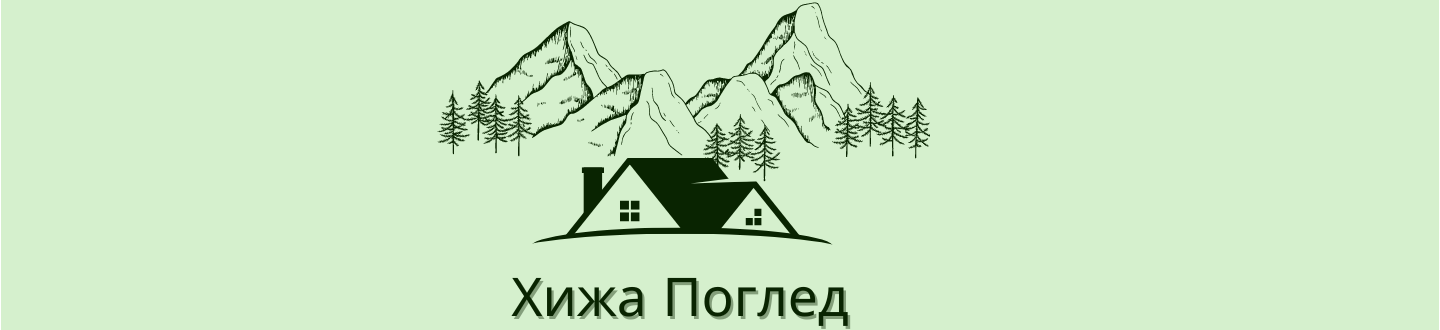
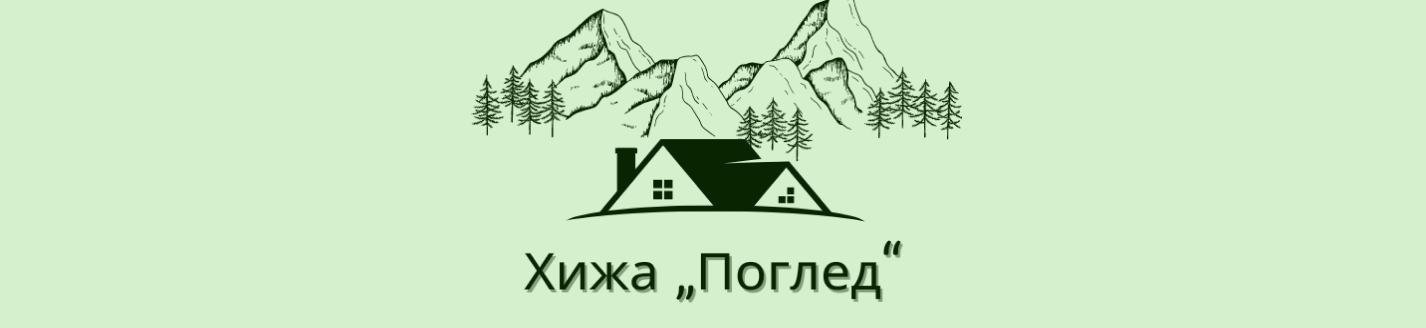
Added social media buttons

Changed region(s): [[0.3086, 0.0, 0.6788, 0.7317], [0.3394, 0.7622, 0.6171, 1.0], [0.6171, 0.7317, 0.648, 0.7927]]

diff --git a/index.css b/index.css
@@ -1,51 +1,165 @@
 /* General Reset */
 * {
-    box-sizing: border-box; /* Ensure padding and borders are included in width and height */
+  box-sizing: border-box; /* Ensure padding and borders are included in width and height */
 }
 
-html, body {
-    margin: 0;
-    padding: 0;
-    overflow-x: hidden; /* Prevent horizontal scrolling */
-    background-color: rgb(213, 240, 205);
+html,
+body {
+  margin: 0;
+  padding: 0;
+  overflow-x: hidden; /* Prevent horizontal scrolling */
+  background-color: rgb(213, 240, 205);
 }
 
 /* Header Image */
 .headerImg {
-    margin: 0;
-    padding: 0;
-    width: 100%; /* Make sure it spans the full width */
-    display: block;
+  margin: 0;
+  padding: 0;
+  width: 100%; /* Make sure it spans the full width */
+  display: block;
 }
 
 /* Header Text */
 .headerText {
-    padding: 0;
-    margin: 0;
-    background-color: rgb(213, 240, 205);
-    height: 200px;
-    width: 100%; /* Ensure it spans the full width */
-    line-height: 1;
+  padding: 0;
+  margin: 0;
+  background-color: rgb(213, 240, 205);
+  height: 200px;
+  width: 100%; /* Ensure it spans the full width */
+  line-height: 1;
+  text-align: center;
+  font-family: Arial, Helvetica, sans-serif;
+  font-size: 30px;
+  border: 0;
 }
 
 /* Navbar */
 .navbar {
-    margin: 0;
-    padding: 0;
-    width: 100%; 
-    background-color: black;
-    display: flex; /* Use flexbox to align buttons evenly */
-    justify-content: space-around; /* Space out the buttons */
-    align-items: center; /* Center buttons vertically */
+  margin: 0;
+  padding: 0;
+  width: 100%;
+  background-color: black;
+  display: flex; /* Use flexbox to align buttons evenly */
+  justify-content: space-around; /* Space out the buttons */
+  align-items: center; /* Center buttons vertically */
 }
 
 /* Navbar Buttons */
 .navButton {
-    margin: 0; /* Remove default margin to avoid overflow */
-    padding: 15px; /* Add padding for spacing */
-    color: white;
-    background-color: transparent;
-    border: none;
-    cursor: pointer;
+  margin: 0; /* Remove default margin to avoid overflow */
+  padding: 20px; /* Add padding for spacing */
+  color: white;
+  background-color: transparent;
+  border: none;
+  cursor: pointer;
+  font-family: Arial, Helvetica, sans-serif;
+  font-size: 25px;
+  box-shadow: 5px;
+}
+.navButton:hover {
+  color: green;
 }
 
+/* Search Bar */
+.searchBar {
+  margin: 0; /* Remove default margin */
+  padding: 10px 15px; /* Smaller padding for a more compact size */
+  color: black; /* Change text color to black for better readability */
+  background-color: white; /* White background for the search bar */
+  border: 2px solid white; /* White border */
+  border-radius: 25px; /* Rounded corners */
+  font-family: Arial, Helvetica, sans-serif;
+  font-size: 18px; /* Smaller font size */
+  outline: none; /* Remove default focus outline */
+  width: 200px; /* Fixed width */
+}
+
+.searchBar::placeholder {
+  color: gray; /* Placeholder text color */
+}
+
+.searchBar:hover,
+.searchBar:focus {
+  border: 2px solid green; /* Change border color on hover or focus */
+}
+
+/* Navbar Container Adjustment */
+.navbar {
+  margin: 0;
+  padding: 0;
+  width: 100%;
+  background-color: black;
+  display: flex;
+  justify-content: center; /* Align items to the right */
+  align-items: center; /* Center items vertically */
+}
+
+.navButton {
+  margin-right: 20px; /* Add spacing between buttons */
+}
+
+.wrapper .icon {
+  position: relative;
+  background-color: #ffffff;
+  border-radius: 50%;
+  margin: 10px;
+  width: 50px;
+  height: 50px;
+  line-height: 50px;
+  font-size: 22px;
+  display: inline-block;
+  align-items: center;
+  box-shadow: 0 10px 10px rgba(0, 0, 0, 0.1);
+  cursor: pointer;
+  transition: all 0.2s cubic-bezier(0.68, -0.55, 0.265, 1.55);
+  color: #333;
+  text-decoration: none;
+}
+.wrapper .tooltip {
+  position: absolute;
+  top: 0;
+  line-height: 1.5;
+  font-size: 14px;
+  background-color: #ffffff;
+  color: #ffffff;
+  padding: 5px 8px;
+  border-radius: 5px;
+  box-shadow: 0 10px 10px rgba(0, 0, 0, 0.1);
+  opacity: 0;
+  pointer-events: none;
+  transition: all 0.3s cubic-bezier(0.68, -0.55, 0.265, 1.55);
+}
+.wrapper .tooltip::before {
+  position: absolute;
+  content: "";
+  height: 8px;
+  width: 8px;
+  background-color: #ffffff;
+  bottom: -3px;
+  left: 50%;
+  transform: translate(-50%) rotate(45deg);
+  transition: all 0.3s cubic-bezier(0.68, -0.55, 0.265, 1.55);
+}
+.wrapper .icon:hover .tooltip {
+  top: -45px;
+  opacity: 1;
+  visibility: visible;
+  pointer-events: auto;
+}
+.wrapper .icon:hover span,
+.wrapper .icon:hover .tooltip {
+  text-shadow: 0px -1px 0px rgba(0, 0, 0, 0.1);
+}
+.wrapper .facebook:hover,
+.wrapper .facebook:hover .tooltip,
+.wrapper .facebook:hover .tooltip::before {
+  background-color: #3b5999;
+  color: #ffffff;
+}
+
+.wrapper .instagram:hover,
+.wrapper .instagram:hover .tooltip,
+.wrapper .instagram:hover .tooltip::before {
+  background-color: #e1306c;
+  color: #ffffff;
+}

diff --git a/index.html b/index.html
@@ -4,37 +4,49 @@
     <meta charset="UTF-8" />
     <meta name="viewport" content="width=device-width, initial-scale=1.0" />
     <link rel="stylesheet" href="index.css" />
+    <!-- Font Awesome 5.15.1 CSS -->
+<link rel='stylesheet' href='https://cdnjs.cloudflare.com/ajax/libs/font-awesome/5.15.1/css/all.min.css'>
     <title>Хижа Поглед</title>
   </head>
   <body>
-
     <!-- Header -->
-
     <header class="header">
       <div class="headerImg">
         <img src="./assets/Frame 1.png" alt="Лого на хижа Поглед" />
       </div>
       <div class="headerText">
         Насладете се на прекрасна природа и уютна обстановка при нас!
-      </div>
+        <div class="wrapper">
+          <a href="#" class="icon facebook">
+            <div class="tooltip">Facebook</div>
+            <span><i class="fab fa-facebook-f"></i></span>
+          </a>
+          <a href="#" class="icon instagram">
+            <div class="tooltip">Instagram</div>
+            <span><i class="fab fa-instagram"></i></span>
+          </a>
+
     </header>
 
     <!-- Navbar -->
-
     <nav class="navbar">
       <button class="navButton">Начало</button>
       <button class="navButton">Контакти</button>
       <button class="navButton">Информация</button>
       <button class="navButton">Галерия</button>
       <label for="search" class="visually-hidden">Търсене</label>
-      <input id="search" class="searchBar" type="text" placeholder="Търсене..." />
+      <input
+        id="search"
+        class="searchBar"
+        type="text"
+        placeholder="Търсене..."
+      />
     </nav>
 
     <!-- Main Content -->
-
     <main>
       <!-- Add main content here -->
     </main>
-
   </body>
 </html>
+
